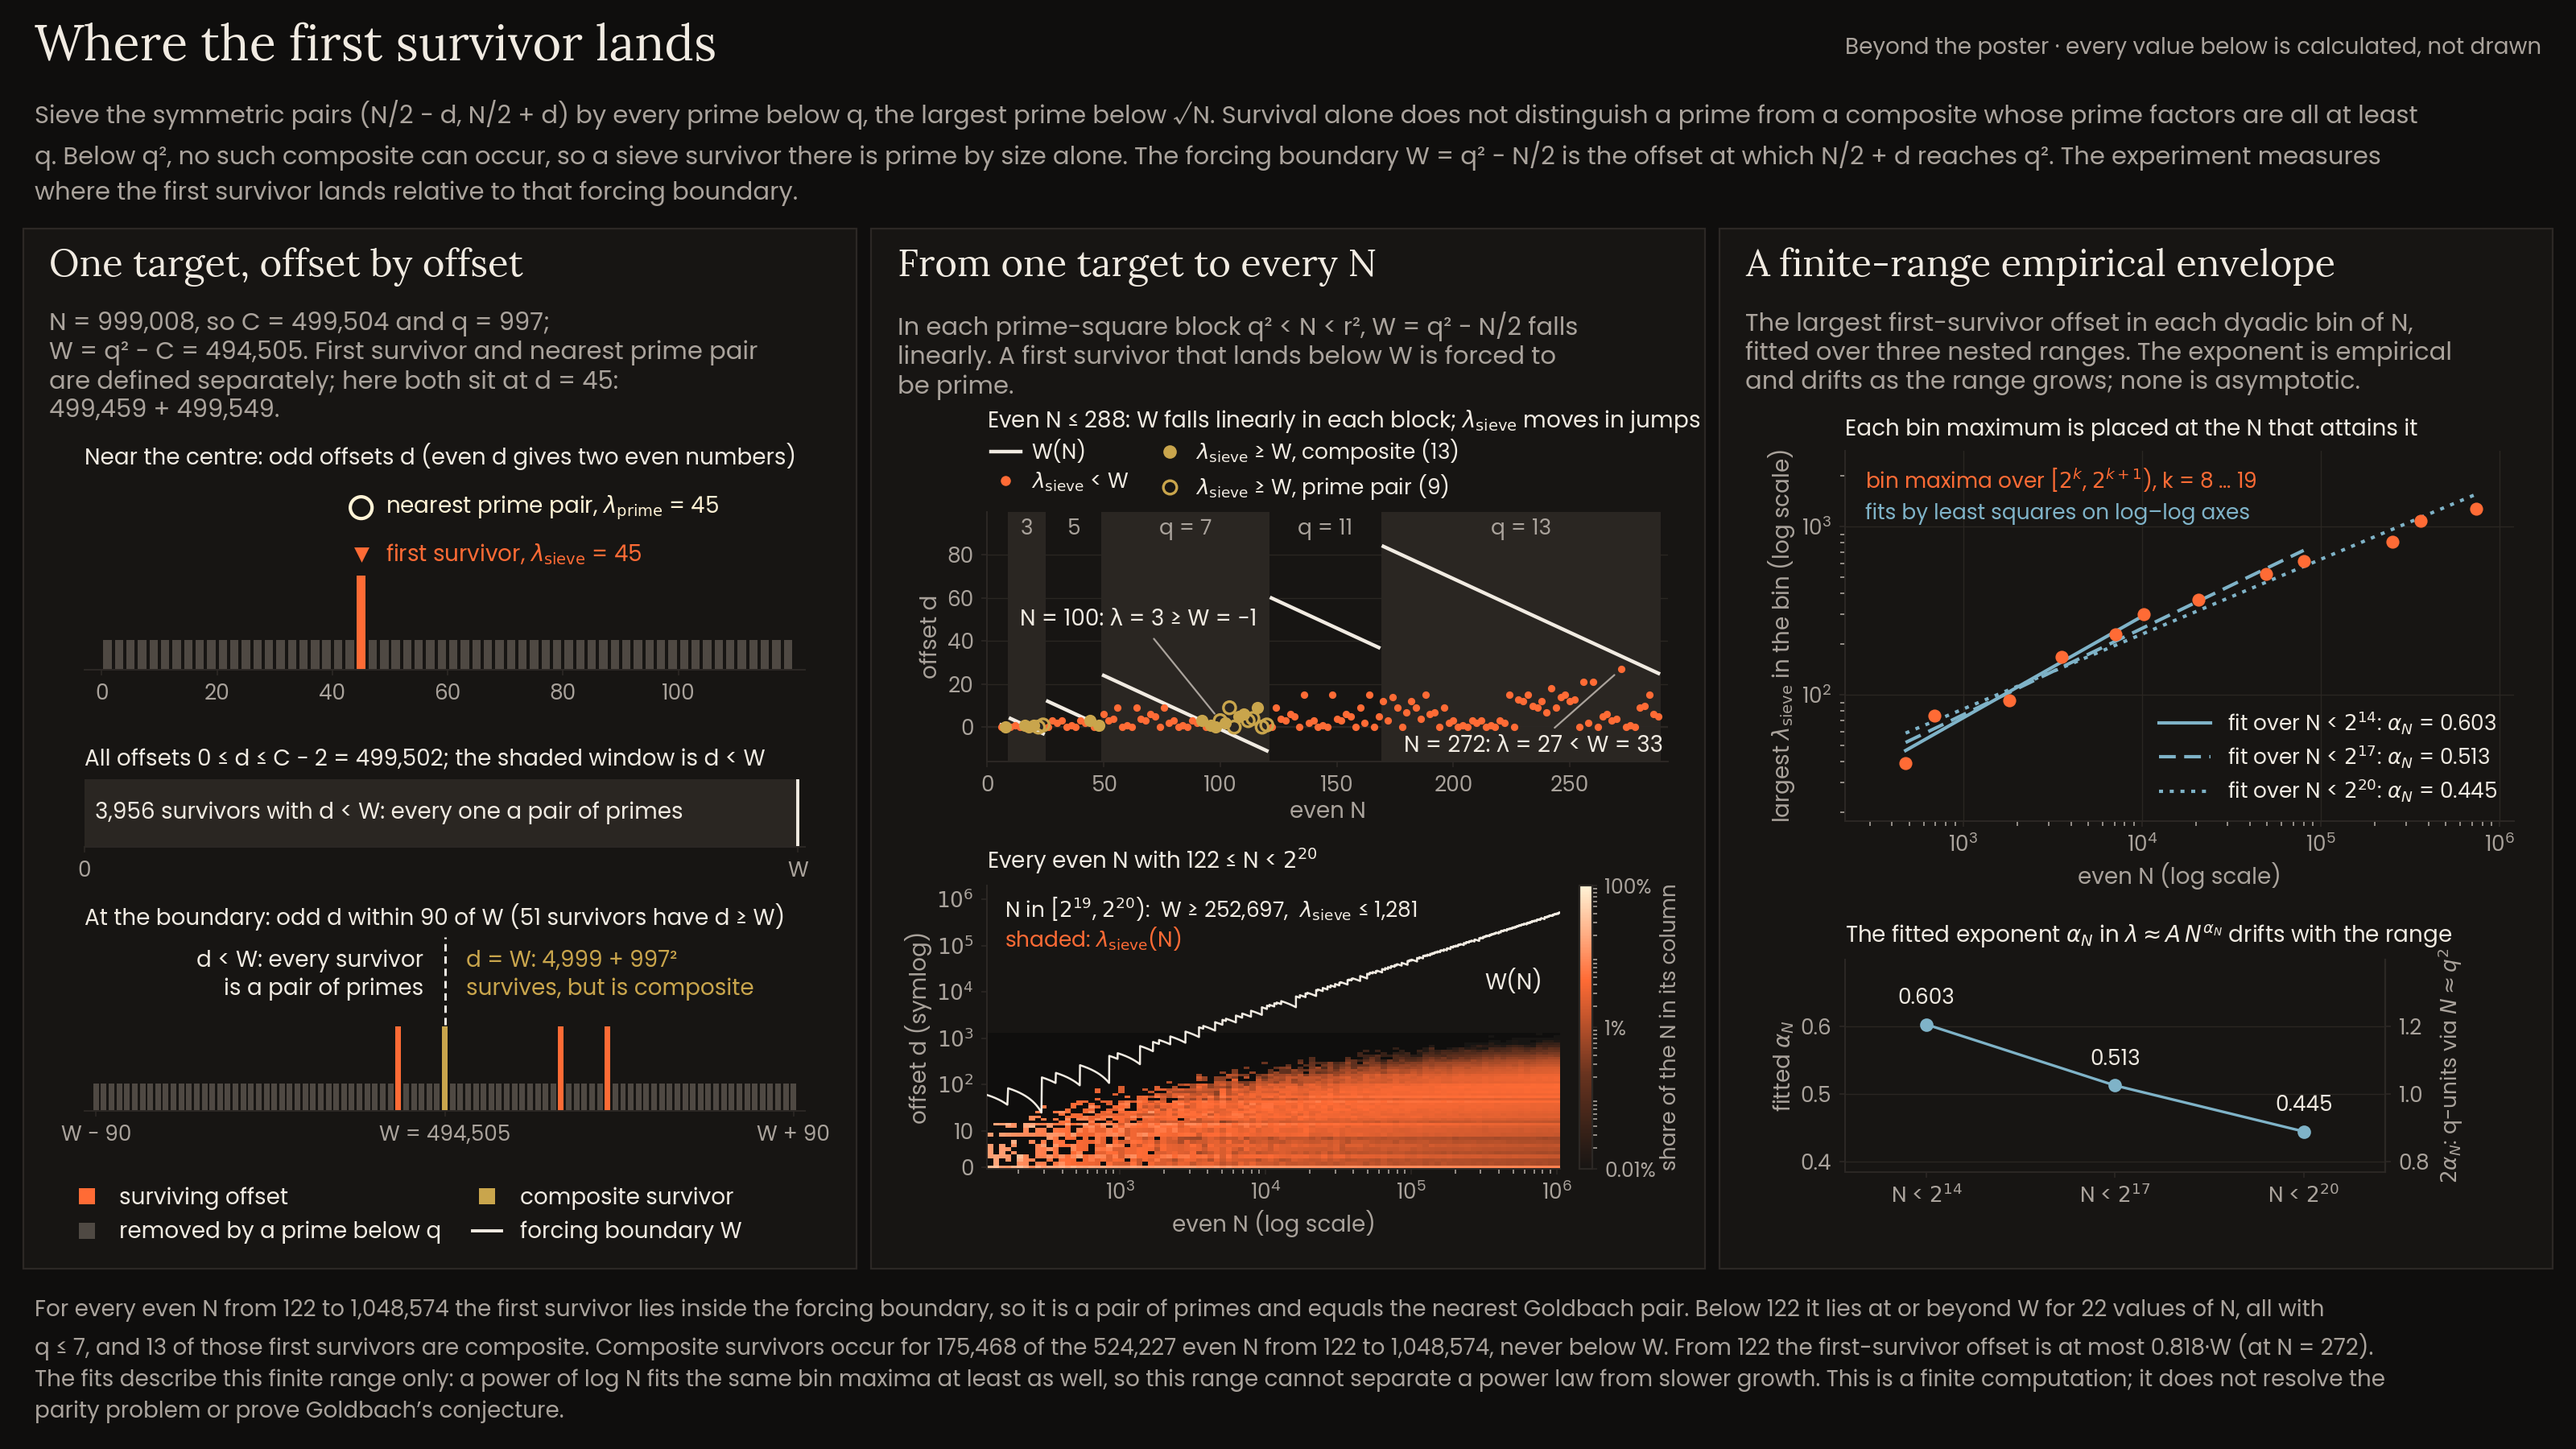
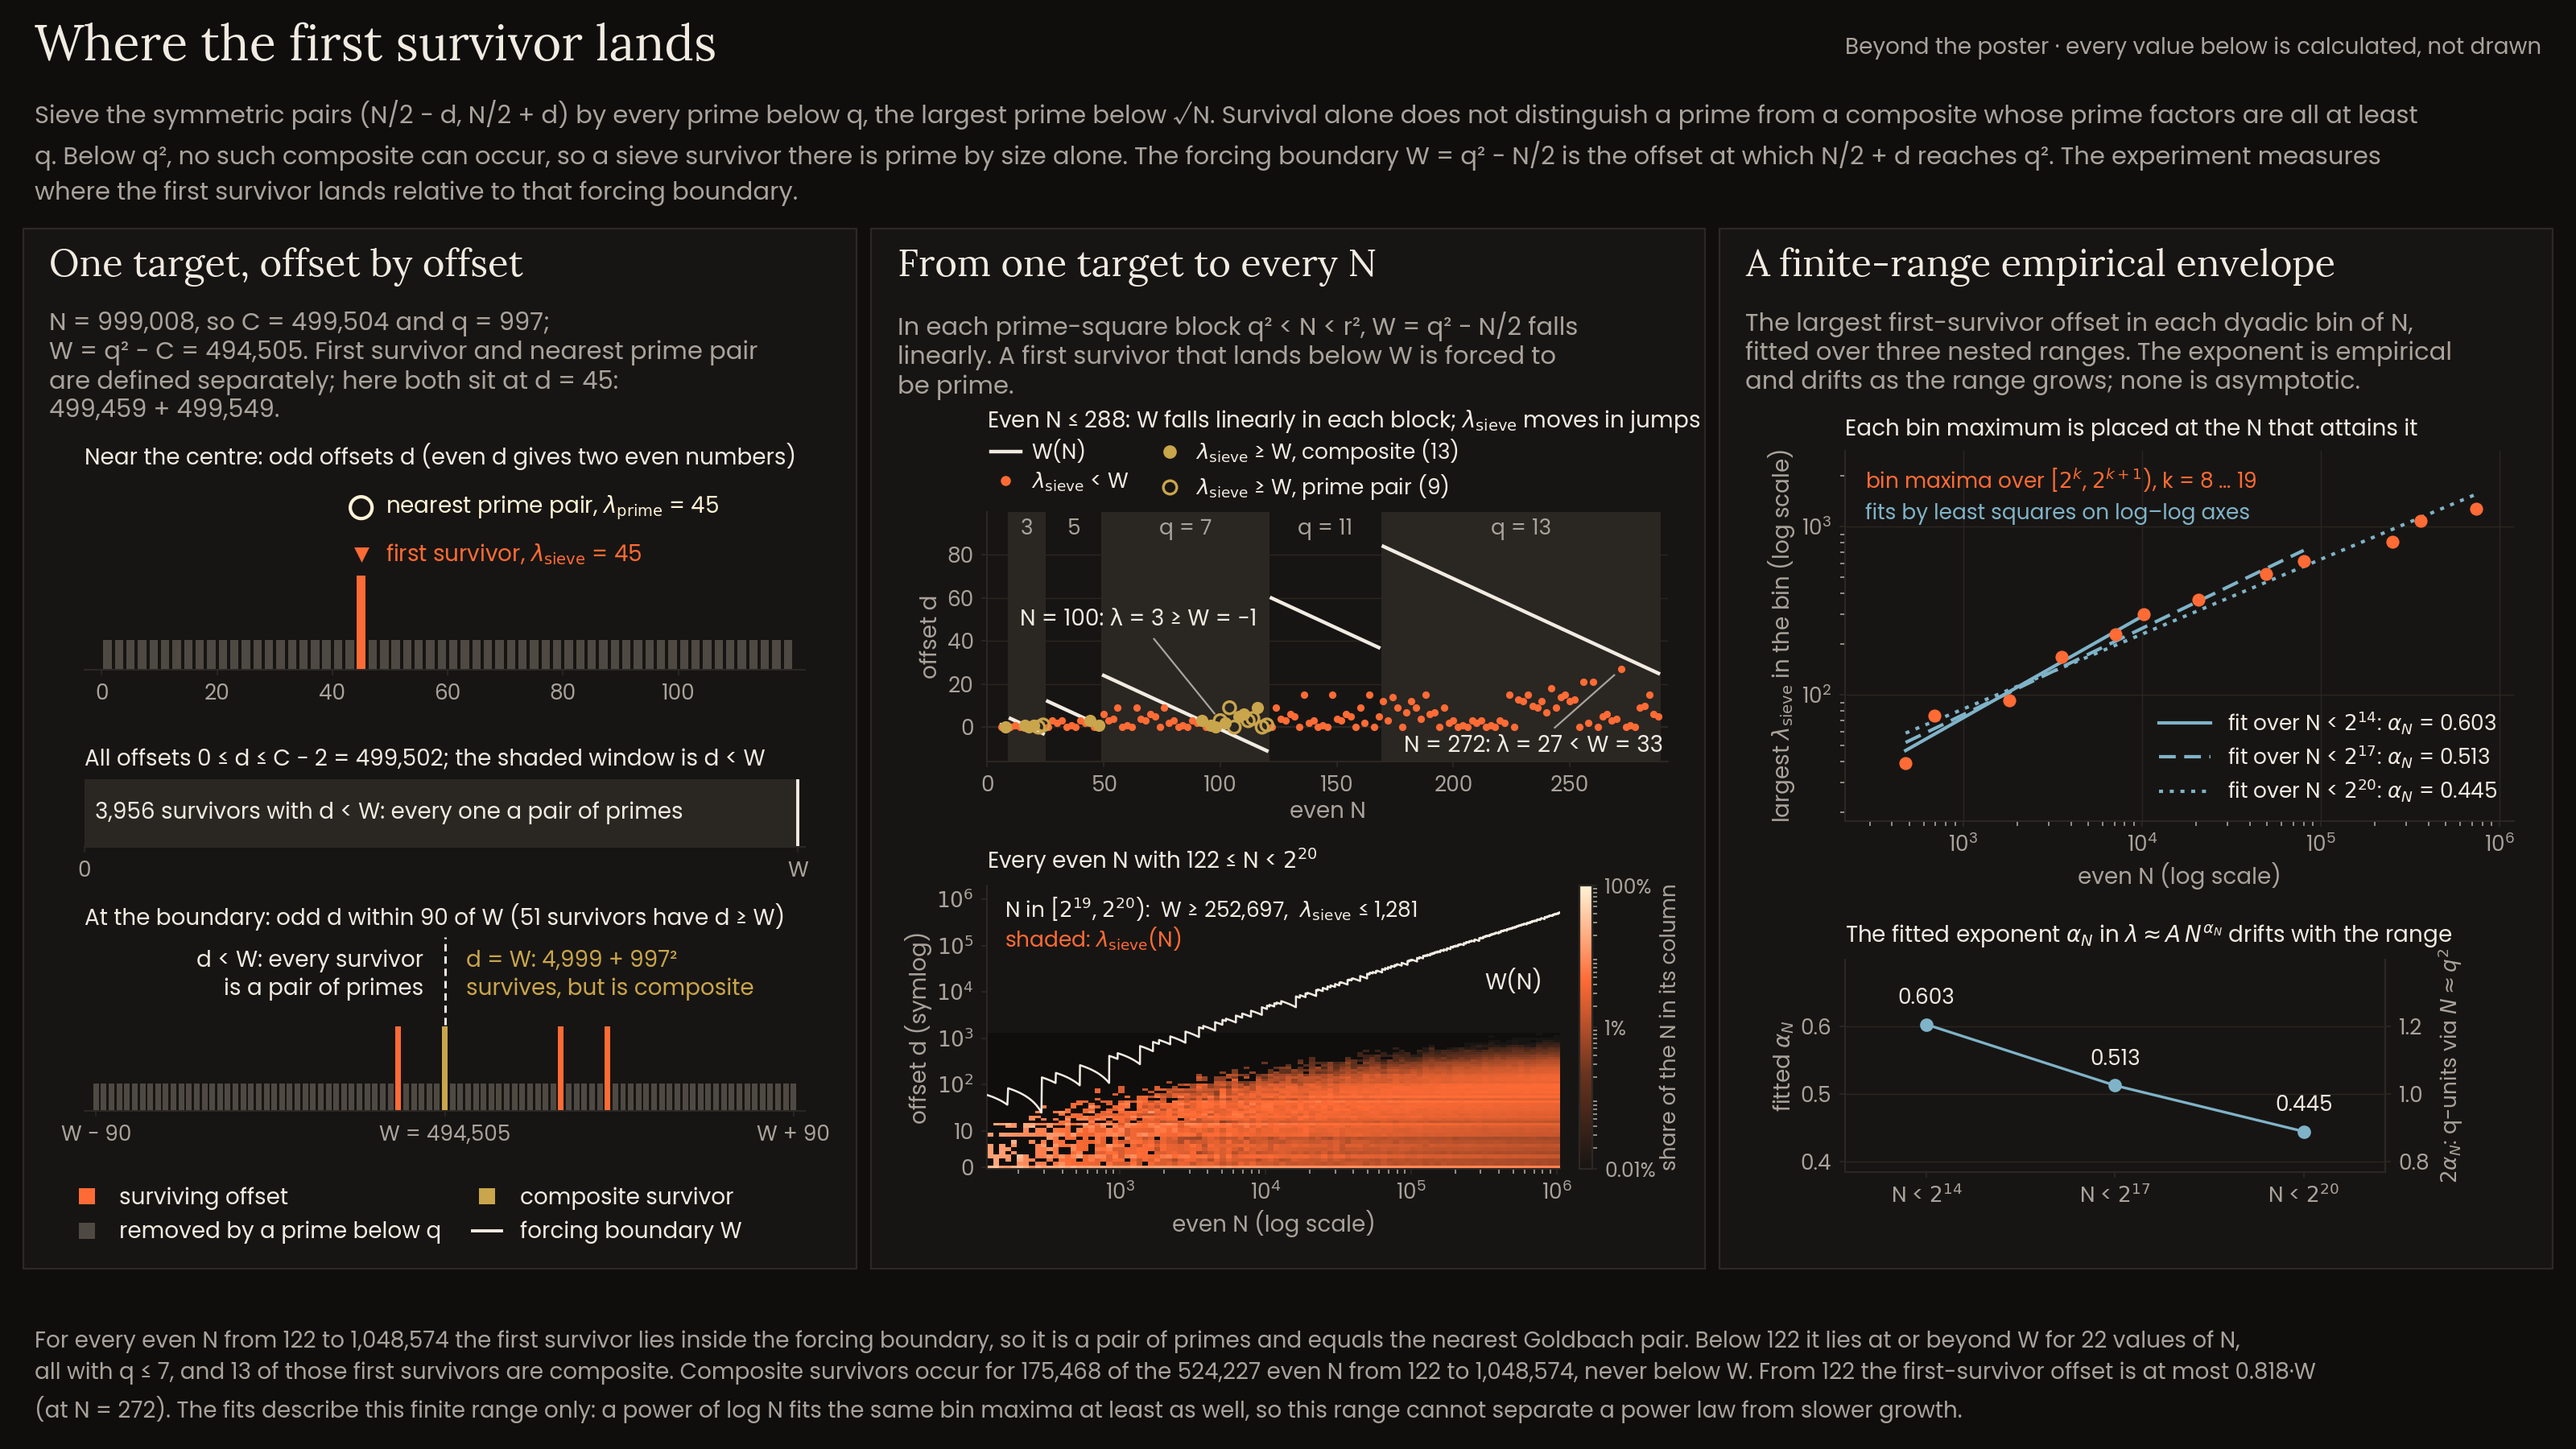
Refine first survivor experiment

Changed region(s): [[0.0, 0.9022, 0.9062, 0.9956]]

diff --git a/extras/first_survivor_experiment/render.py b/extras/first_survivor_experiment/render.py
@@ -1,5 +1,5 @@
 """Draws the first-survivor figures from FirstSurvivorData. Nothing here computes
-the mathematics; every number printed comes from the data.
+the mathematics; every reported mathematical value comes from the data.
 
 build_figure(name, d) draws the main figure in one layout; build_blocks_figure()
 draws the appendix of exact blocks. Artists carry their colour role as gid, and
@@ -344,14 +344,13 @@ def caption(d):
         f"For every even N from {d.min_N} to {d.n_max - 2:,} the first survivor lies inside the forcing boundary, "
         "so it is a pair of primes and equals the nearest Goldbach pair.",
         f"Below {d.min_N} it lies at or beyond W for {len(d.exceptions)} values of N, "
-        f"all with {keep(f'q ≤ {last_q}')}, "
+        f"{keep(f'all with q ≤ {last_q}')}, "
         f"and {len(d.composite_first)} of those first survivors are composite.",
         f"Composite survivors occur for {d.n_with_composite:,} of the {int(big.sum()):,} even N from {d.min_N} to "
         f"{d.n_max - 2:,}, "
         "never below W.",
-        f"From {d.min_N} the first-survivor offset is at most {d.max_ratio:.3f}·W (at N = {d.max_ratio_N}).",
+        f"From {d.min_N} the first-survivor offset is at most {d.max_ratio:.3f}·W {keep(f'(at N = {d.max_ratio_N})')}.",
         f"The fits describe this finite range only: {growth}",
-        "This is a finite computation; it does not resolve the parity problem or prove Goldbach’s conjecture.",
     ]
 
 

diff --git a/tests/test_first_survivor_figures.py b/tests/test_first_survivor_figures.py
@@ -152,7 +152,6 @@ def test_labels(figure):
               "Every even N with 122 ≤ N < $2^{20}$",
               "at most 0.818·W (at N = 272)",
               "this range cannot separate a power law from slower growth",
-              "it does not resolve the parity problem or prove Goldbach’s conjecture",
               "none is asymptotic",
               r"$2\alpha_N$: q-units via $N \approx q^2$"):
         assert s in text, s
@@ -164,6 +163,8 @@ def test_labels(figure):
     # about all sieve information.
     assert "to $2^{20}$" not in text and "through $2^{20}$" not in text
     assert "Sieve information alone" not in text
+    # The figure stays descriptive: no statements about proof status.
+    assert "prove" not in text.lower() and "parity problem" not in text and "conjecture" not in text
 
 
 def test_blocks_figure(first_survivor_figures, first_survivor_blocks, first_survivor):

diff --git a/tests/test_first_survivor.py b/tests/test_first_survivor.py
@@ -165,13 +165,13 @@ def test_exceptions_by_brute_force(first_survivor):
 
 
 def test_headline_range(first_survivor):
-    # The last exception is N = 120, the end of the q = 7 block, so λ_sieve < W from
-    # N = 122 on; the earlier statement "from N = 132" holds a fortiori.
+    # The last exception is N = 120, the end of the q = 7 block, so λ_sieve < W for
+    # every even 122 <= N < 2^20.
     d = first_survivor
     sw = d.sweep
     inside = sw.lam_sieve < sw.W
     assert d.min_N == 122
-    assert inside[sw.N >= 122].all() and inside[sw.N >= 132].all() and not inside[sw.N == 120].all()
+    assert inside[sw.N >= 122].all() and not inside[sw.N == 120].all()
     assert sw.q[sw.N == 120][0] == 7 and sw.q[sw.N == 122][0] == 11
     assert (sw.W[sw.N >= 122] > 0).all() and (sw.W[sw.N <= 120] <= 0).sum() > 0
 

diff --git a/goldbach/number_theory.py b/goldbach/number_theory.py
@@ -304,7 +304,8 @@ def composite_survivors(Ns, qs, spf, primes):
     pair of primes, and how many such offsets there are (-1 and 0 if none).
 
     Precondition: each q must be the sieve depth of its N, the largest prime below √N,
-    as largest_prime_below_sqrt returns; primes must reach max(N) / q. The reasoning
+    as largest_prime_below_sqrt returns; primes must contain every prime p' with
+    q_i·p' < N_i, i.e. reach at least max_i floor((N_i - 1) / q_i). The reasoning
     below depends on it and the function does not check it.
 
     A composite m < N with no prime factor below q is then q·p' with p' a prime >= q:

diff --git a/extras/first_survivor_experiment/__init__.py b/extras/first_survivor_experiment/__init__.py
@@ -21,6 +21,6 @@ too. The experiment measures where the first survivor lands relative to W.
 
 Shared mathematical primitives are in goldbach/number_theory.py. The poster and the
 parity extra do not use this package. The independent checks are the tests:
-python -m pytest -m first_survivor. Nothing here proves Goldbach's conjecture,
-states an asymptotic exponent or resolves the parity problem.
+python -m pytest -m first_survivor. The fitted exponents describe finite computed
+ranges only and are not asymptotic claims.
 """

diff --git a/extras/first_survivor_experiment/data.py b/extras/first_survivor_experiment/data.py
@@ -2,8 +2,8 @@
 
 first_survivor_data() computes every even N in the main range, the worked target,
 the dyadic envelope and its fits, and the complete prime-square blocks inside the
-range. exact_blocks() computes the selected blocks beyond it. Every number the
-figures print comes from these objects.
+range. exact_blocks() computes the selected blocks beyond it. All reported
+mathematical values in the figures are derived from these objects.
 """
 from dataclasses import dataclass
 

diff --git a/README.md b/README.md
@@ -143,12 +143,12 @@ nearest pair of primes: a pair of primes ≥ q survives the sieve automatically,
 so any closer pair would itself be a survivor at a smaller offset, contradicting
 the definition of the first survivor. Hence λ_sieve(N) = λ_prime(N).
 
-At or beyond W a survivor can be composite, so W is the smallest offset at which
-one could occur. When d = W lies in the valid offset range 0 ≤ d ≤ C − 2
-(equivalently W ≥ 0 and N − q² ≥ 2), the upper endpoint is q², which has no
-prime factor below q. A composite survivor then occurs at d = W exactly when the
-other endpoint, N − q², also has no prime factor below q. At N = q² + 1, for
-instance, d = W = C − 1 is outside the range. The experiment measures where the
+No composite survivor can occur at a valid offset d < W. When d = W itself lies
+in the valid offset range 0 ≤ d ≤ C − 2 (equivalently W ≥ 0 and N − q² ≥ 2), it
+is therefore the first offset at which a composite survivor can occur. There
+C + W = q², which has no prime factor below q, so a composite survivor occurs at
+d = W exactly when the other endpoint, N − q², also has no prime factor below q.
+At N = q² + 1, for instance, d = W = C − 1 is outside the range. The experiment measures where the
 first survivor lands relative to that boundary.
 
 **The small exceptions.** Every even N from 6 to 1,048,574 (below 2²⁰) is
@@ -160,9 +160,8 @@ For the other 9 it is a pair of primes outside the boundary. W ≤ 0 occurs only
 these blocks; for the poster's N = 100, W = −1.
 
 **The exhaustive result.** For every even N with 122 ≤ N < 2²⁰, that is from the
-start of the q = 11 block through 1,048,574, λ_sieve(N) < W(N). In particular
-this holds from N = 132. In that range the first survivor is always the nearest
-Goldbach pair. The largest ratio λ_sieve/W is 27/33 ≈ 0.818, at N = 272.
+start of the q = 11 block through 1,048,574, λ_sieve(N) < W(N). In that range
+the first survivor is always the nearest Goldbach pair. The largest ratio λ_sieve/W is 27/33 ≈ 0.818, at N = 272.
 Composite survivors occur for 175,468 of those 524,227 values of N, but never
 below W.
 
@@ -237,11 +236,9 @@ They are neither joined nor fitted together with the dyadic bins.
 
 ### Limitations
 
-These are finite computations: every even N below 2²⁰, plus 16 selected blocks
-up to q < 50,000. They do not prove Goldbach's conjecture and do not resolve the
-parity problem. Guaranteeing a first survivor inside the boundary for every N
-would itself be a form of Goldbach's conjecture. The fitted exponents describe
-this range only and state no growth law.
+These are finite computations: every even N < 2²⁰, plus 16 selected
+prime-square blocks up to q < 50,000. The fitted exponents describe these finite
+ranges only and do not establish an asymptotic growth law.
 
 ## Code layout
 
